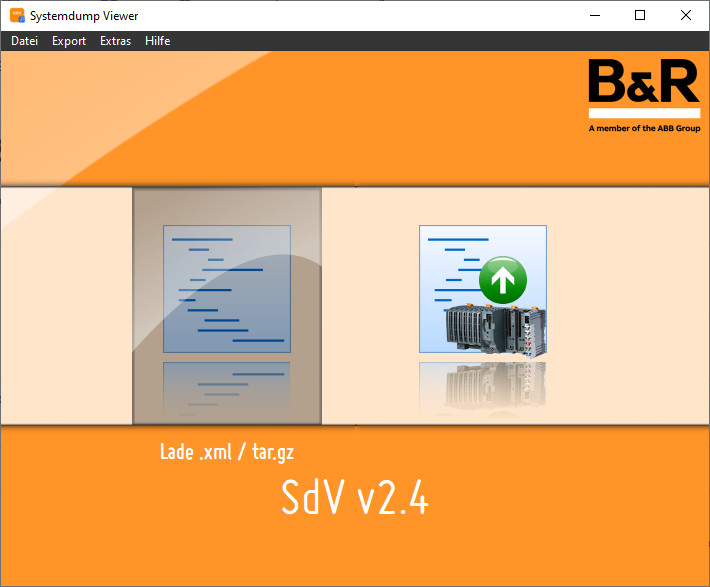
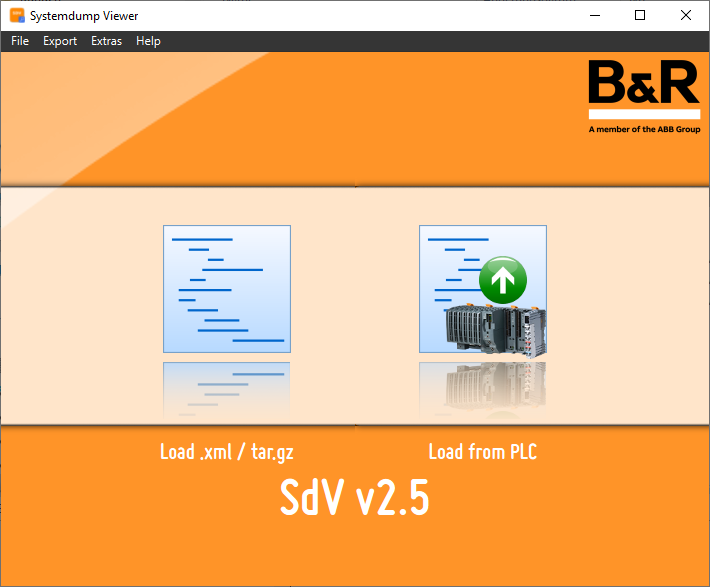
Fixes #26 updated README.md and screenshot

diff --git a/README.md b/README.md
@@ -9,8 +9,8 @@ This project adheres to the Contributor Covenant [code of conduct](CONTRIBUTING.
 By participating, you are expected to uphold this code. Please report unacceptable behavior to [the owner](mailto:bee-eater@users.noreply.github.com).
 
 # How to compile
-1. Get Qt 5.12.6 from here: [Download](http://download.qt.io/official_releases/qt/5.12/5.12.6/qt-opensource-windows-x86-5.12.6.exe)
-1. Install Qt with mingw730_32
+1. Get Qt 6.4.2 via online installer from here: [Download](https://www.qt.io/download-open-source)
+1. Install Qt with 11.2.0
 1. Copy the qwt.dll from libs folder to you build/debug or build/release folder	
 
 If you want to use another Qt version, you'll have to compile Qwt first. [Tutorial](https://www.youtube.com/watch?v=ZqFKwF6q7jQ)
